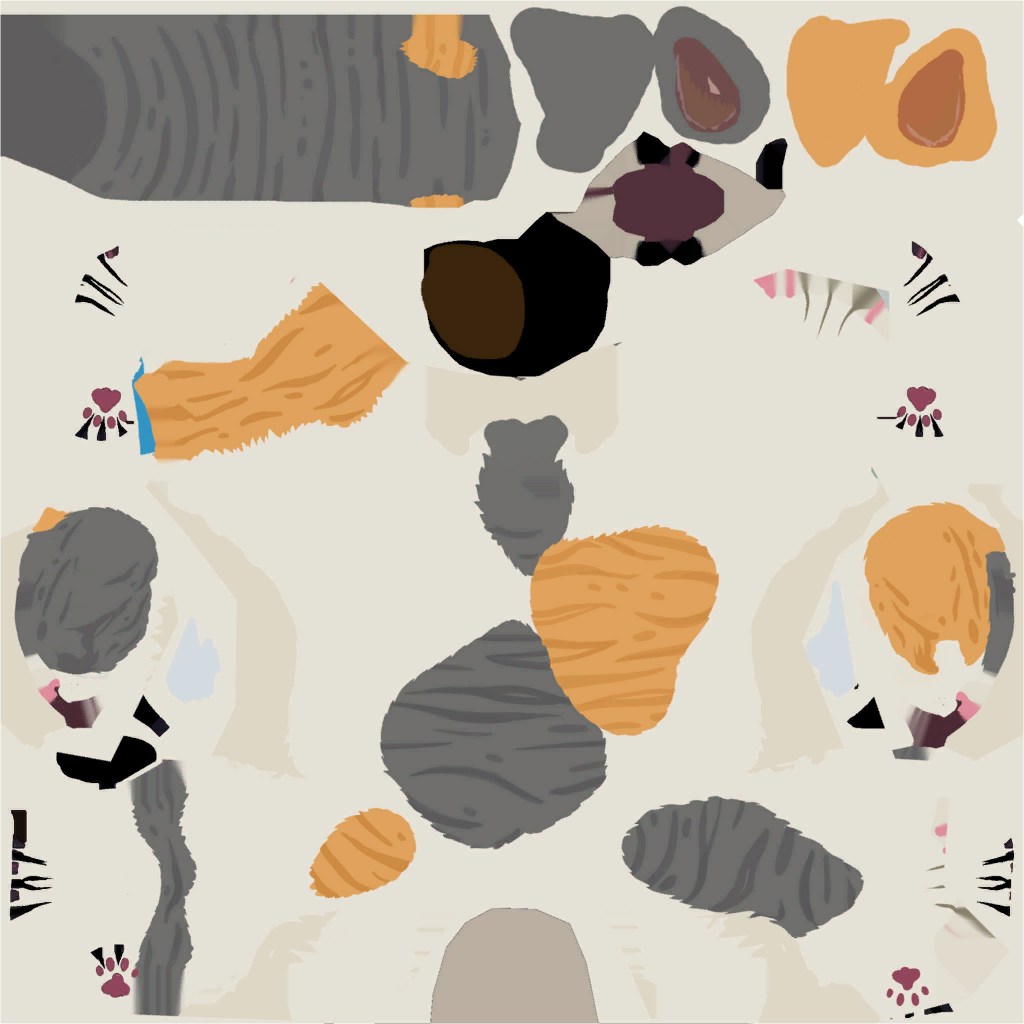
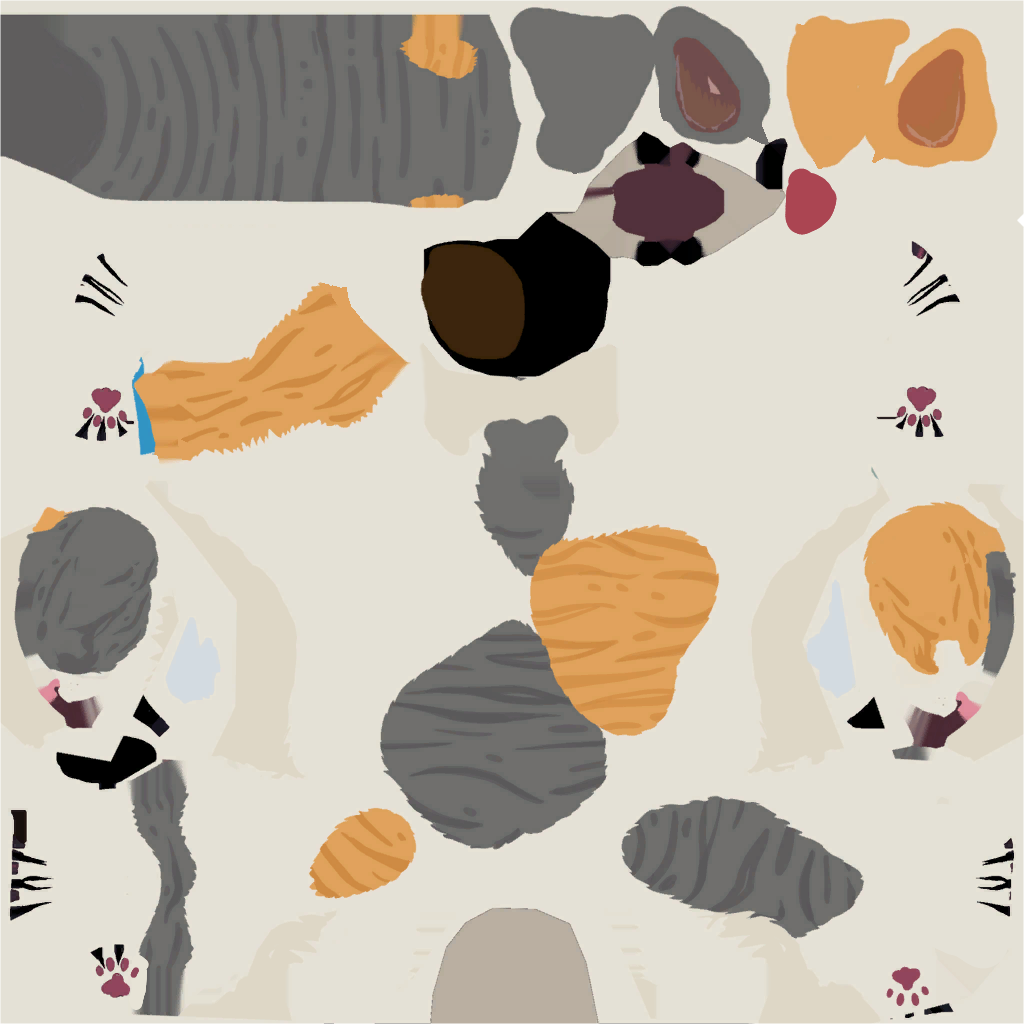
Eye radius control + edited textures

diff --git a/CustomCatTex/Plugin.cs b/CustomCatTex/Plugin.cs
@@ -65,6 +65,7 @@ namespace CustomCatTex
 
             string[] lines = ReadTextFile(Path.Combine(Path.GetDirectoryName(Application.dataPath), "Skins/EyeColors.txt"));
 
+            //  colors
             foreach(string line in lines)
             {
                 int index = line.Contains("Sclera") ? 0 : line.Contains("Iris") ? 1 : line.Contains("Pupil") ? 2 : 
@@ -86,6 +87,31 @@ namespace CustomCatTex
                     }
 
                     mat.SetColor(PropertyName[index], col);
+                }
+            }
+
+            //  radius parameters
+            foreach(string line in lines)
+            {
+                string[] propertyName = { "_ScleraRadius", "_IrisRadius", "_PupilRadius" };
+                int index = line.Contains("Radius_1") ? 0 : line.Contains("Radius_2") ? 1 : line.Contains("Radius_3") ? 2 : -1;
+
+                //  -1 prevents continuation
+                if (index >= 0)
+                {
+                    string split = line.Split("=".ToCharArray())[1];
+
+                    float radius = 0;
+
+                    if(float.TryParse(split, out radius))
+                    { }
+                    else
+                    {
+                        radius = 0.4f;
+                        Debug.LogError(PropertyName[index] + " Eye radius could not be parsed! Incorrect formatting? Expecting: Float");
+                    }
+
+                    mat.SetFloat(propertyName[index], radius);
                 }
             }
         }
